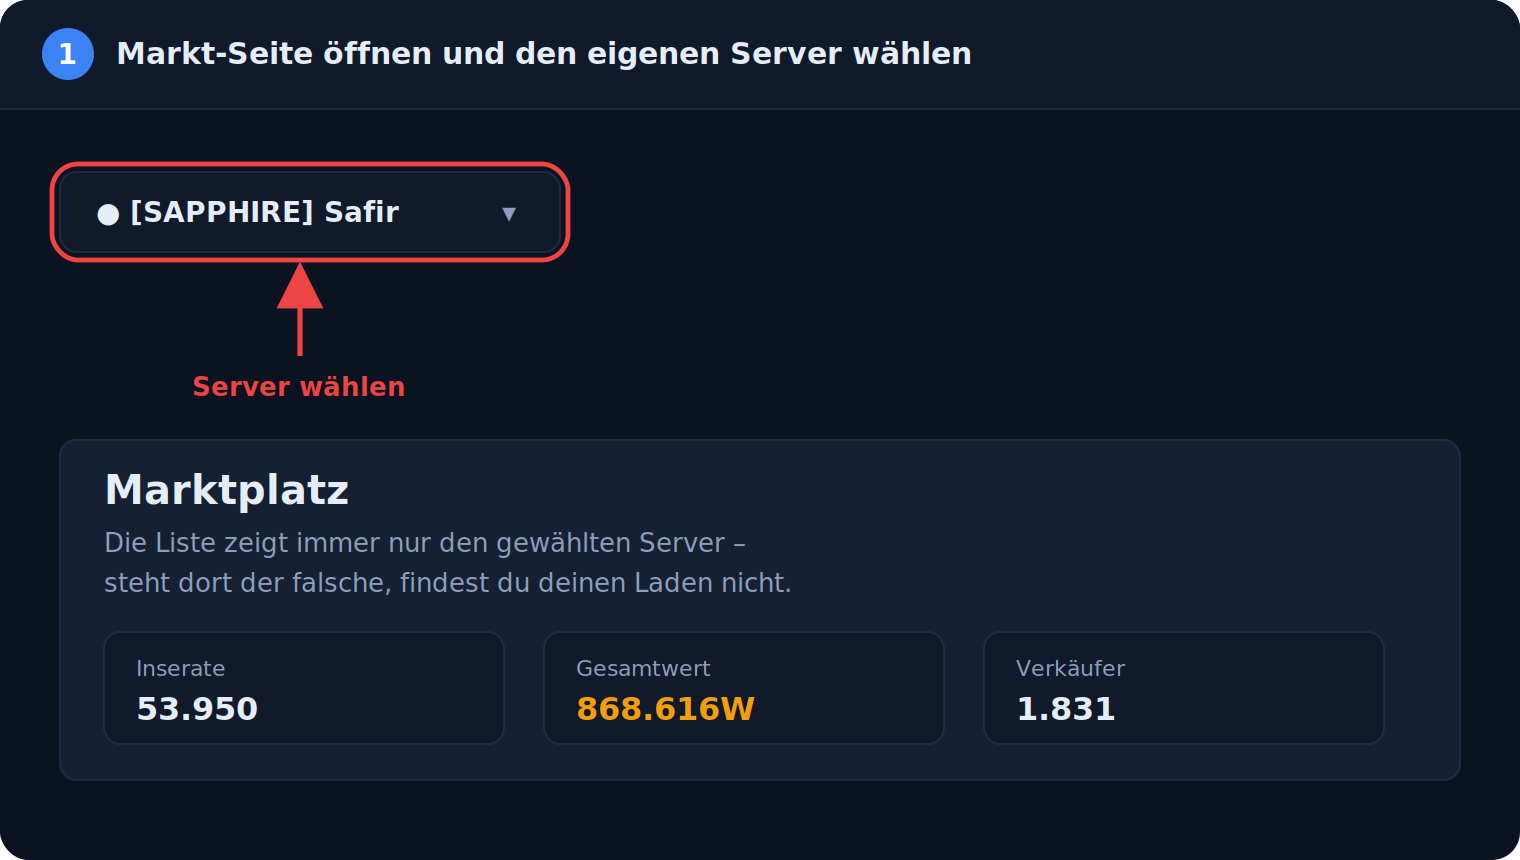
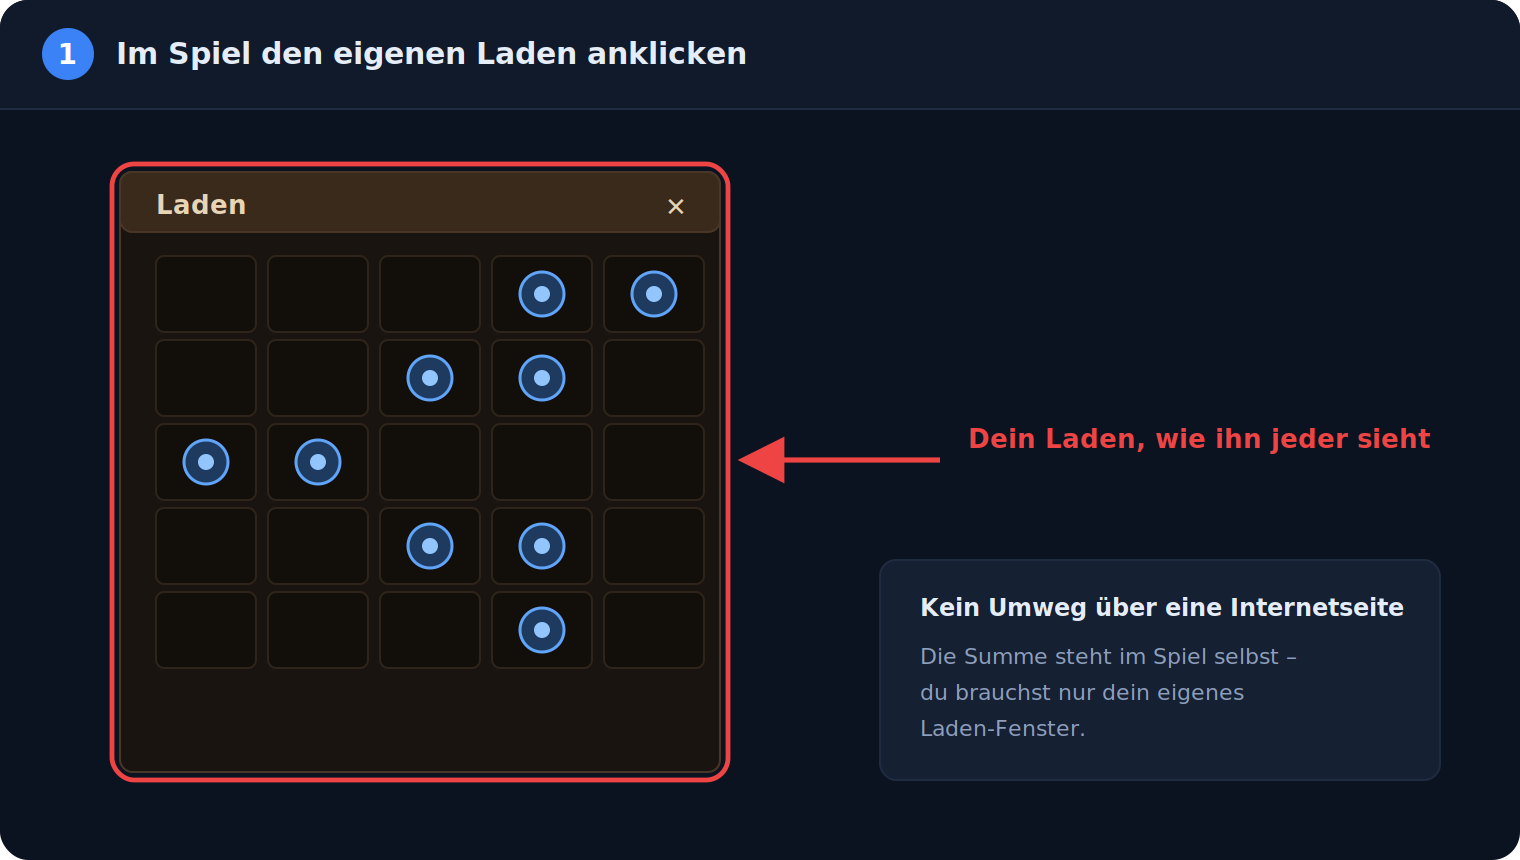
Quellcode zu Version 1.61.0 (a4471e4a2aba9b37bd351b5f139969d6788a3540)

diff --git a/desktop/tools/help-images.py b/desktop/tools/help-images.py
@@ -52,91 +52,55 @@ def glow(x,y,w,h,r=10):
     return (f'<rect x="{x-4}" y="{y-4}" width="{w+8}" height="{h+8}" rx="{r+3}" fill="none" '
             f'stroke="{MARK}" stroke-width="2.4"/>')
 
-# ---- 1: Server waehlen ------------------------------------------------------
-s1 = head(1, "Markt-Seite öffnen und den eigenen Server wählen")
-s1 += box(30, 86, 250, 40)
-s1 += text(48, 111, "&#9679;  [SAPPHIRE] Safir", 14, MAIN, "600")
-s1 += text(258, 111, "&#9662;", 14, MUTED, anchor="end")
-s1 += glow(30, 86, 250, 40)
-s1 += arrow(150, 178, 150, 136, "Server wählen", 96, 198)
-s1 += box(30, 220, 700, 170, PANEL)
-s1 += text(52, 252, "Marktplatz", 20, MAIN, "700")
-s1 += text(52, 276, "Die Liste zeigt immer nur den gewählten Server –", 13, MUTED)
-s1 += text(52, 296, "steht dort der falsche, findest du deinen Laden nicht.", 13, MUTED)
-for i, (lbl, val) in enumerate([("Inserate", "53.950"), ("Gesamtwert", "868.616W"), ("Verkäufer", "1.831")]):
-    x = 52 + i*220
-    s1 += box(x, 316, 200, 56, CARD)
-    s1 += text(x+16, 338, lbl, 11, MUTED)
-    s1 += text(x+16, 360, val, 16, AMBER if i==1 else MAIN, "700")
+# ---- 1: Laden im Spiel oeffnen ---------------------------------------------
+s1 = head(1, "Im Spiel den eigenen Laden anklicken")
+s1 += box(60, 86, 300, 300, "#1a1410", "#4a3626", 6)
+s1 += box(60, 86, 300, 30, "#3a2a1c", "#4a3626", 6)
+s1 += text(78, 107, "Laden", 13, "#e8d5b5", "600")
+s1 += text(342, 108, "&#10005;", 13, "#e8d5b5", anchor="end")
+for r in range(5):
+    for c in range(5):
+        x = 78 + c*56; y = 128 + r*42
+        s1 += box(x, y, 50, 38, "#120e0a", "#2e241a", 4)
+for r, c in [(0,3),(0,4),(1,2),(1,3),(2,0),(2,1),(3,2),(3,3),(4,3)]:
+    x = 78 + c*56; y = 128 + r*42
+    s1 += f'<circle cx="{x+25}" cy="{y+19}" r="11" fill="#1e3a5f" stroke="#60a5fa" stroke-width="1.5"/>'
+    s1 += f'<circle cx="{x+25}" cy="{y+19}" r="4" fill="#93c5fd"/>'
+s1 += glow(60, 86, 300, 300, 8)
+s1 += arrow(470, 230, 374, 230, "Dein Laden, wie ihn jeder sieht", 484, 224)
+s1 += box(440, 280, 280, 110, PANEL)
+s1 += text(460, 308, "Kein Umweg über eine Internetseite", 12, MAIN, "600")
+s1 += text(460, 332, "Die Summe steht im Spiel selbst –", 11, MUTED)
+s1 += text(460, 350, "du brauchst nur dein eigenes", 11, MUTED)
+s1 += text(460, 368, "Laden-Fenster.", 11, MUTED)
 
-# ---- 2: Verkaeufersuche -----------------------------------------------------
-s2 = head(2, "Verkäufersuche öffnen und den Charakternamen eintragen")
-s2 += box(30, 86, 700, 46)
-for i, tab in enumerate(["Alle", "Mounts | Pets", "Waffen", "Ausrüstungen", "Schmuck"]):
-    s2 += text(52 + i*130, 115, tab, 13, MAIN if i == 0 else MUTED, "600" if i == 0 else "400")
-s2 += box(300, 150, 400, 150)
-s2 += text(322, 180, "Verkäufersuche", 14, MAIN, "600")
-s2 += box(322, 196, 300, 38, DEEP, PRIM)
-s2 += text(338, 221, "ShopName", 14, MAIN)
-s2 += box(630, 196, 48, 38, AMBER, AMBER)
-s2 += lens(654, 215)
-s2 += glow(322, 196, 300, 38)
-s2 += arrow(190, 240, 310, 218, "Name des Charakters,", 30, 232)
-s2 += text(30, 250, "dem der Laden gehört", 13, MARK, "600")
-s2 += arrow(660, 330, 660, 244, "Suchen", 628, 352)
-s2 += text(322, 268, "Nicht der Ladentitel – der Charaktername.", 12, MUTED)
-s2 += box(30, 330, 240, 70, PANEL)
-s2 += text(48, 358, "Tipp", 12, MUTED, "600")
-s2 += text(48, 380, "Gespeicherte Namen bleiben stehen.", 11, MUTED)
-
-# ---- 3: Laden-Symbol anklicken ---------------------------------------------
-s3 = head(3, "In der Trefferliste auf das Laden-Symbol klicken")
-s3 += box(30, 80, 700, 30, CARD)
-s3 += text(52, 100, "Name", 12, MUTED, "600")
-s3 += text(430, 100, "Anzahl", 12, MUTED, "600")
-s3 += text(520, 100, "Preis", 12, MUTED, "600")
-s3 += text(640, 100, "Verkäufer", 12, MUTED, "600")
-for i in range(4):
-    y = 118 + i*68
-    s3 += box(30, y, 700, 60, PANEL)
-    s3 += text(52, y+26, "Legendärer Drachensaphir", 13, "#c084fc", "700")
-    s3 += text(52, y+46, "Beweglichkeit +3", 11, MUTED)
-    s3 += text(170, y+46, "Erdwiderstand +3%", 11, MUTED)
-    s3 += text(438, y+36, "1", 13, MAIN, "700")
-    s3 += text(520, y+36, "40.000.000", 13, AMBER, "700")
-    s3 += box(636, y+20, 28, 24, CARD, LINE, 5)
-    s3 += shopicon(641, y+25)
-    s3 += text(676, y+37, "+", 14, MUTED)
-s3 += glow(636, 138, 28, 24, 7)
-s3 += arrow(560, 394, 646, 174, "Das Laden-Symbol anklicken", 452, 412)
-
-# ---- 4: Gesamtwert ablesen --------------------------------------------------
-s4 = head(4, "Der Laden öffnet sich – unten steht der Gesamtwert")
-s4 += box(230, 76, 300, 320, "#1a1410", "#4a3626", 6)
-s4 += box(230, 76, 300, 30, "#3a2a1c", "#4a3626", 6)
-s4 += text(248, 97, "Laden", 13, "#e8d5b5", "600")
-s4 += text(512, 98, "&#10005;", 13, "#e8d5b5", anchor="end")
+# ---- 2: Summe unten ablesen -------------------------------------------------
+s2 = head(2, "Unten steht der Gesamtwert - diese Zahl eintragen")
+s2 += box(230, 76, 300, 320, "#1a1410", "#4a3626", 6)
+s2 += box(230, 76, 300, 30, "#3a2a1c", "#4a3626", 6)
+s2 += text(248, 97, "Laden", 13, "#e8d5b5", "600")
+s2 += text(512, 98, "&#10005;", 13, "#e8d5b5", anchor="end")
 for r in range(6):
     for c in range(5):
         x = 248 + c*56; y = 118 + r*42
-        s4 += box(x, y, 50, 38, "#120e0a", "#2e241a", 4)
-import_items = [(1,3),(1,4),(2,2),(2,3),(2,4),(3,0),(3,1),(4,2),(4,3),(4,4),(5,3)]
-for r,c in import_items:
+        s2 += box(x, y, 50, 38, "#120e0a", "#2e241a", 4)
+for r, c in [(1,3),(1,4),(2,2),(2,3),(2,4),(3,0),(3,1),(4,2),(4,3),(4,4),(5,3)]:
     x = 248 + c*56; y = 118 + r*42
-    s4 += f'<circle cx="{x+25}" cy="{y+19}" r="11" fill="#1e3a5f" stroke="#60a5fa" stroke-width="1.5"/>'
-    s4 += f'<circle cx="{x+25}" cy="{y+19}" r="4" fill="#93c5fd"/>'
-s4 += text(380, 388, "156W", 18, "#22d3ee", "700", anchor="middle")
-s4 += glow(330, 372, 100, 22, 6)
-s4 += arrow(700, 384, 440, 384, "Das ist dein kompletter Shop-Wert", 712, 372, "end")
-s4 += box(30, 110, 180, 120, PANEL)
-s4 += text(48, 138, "Weiter in M2Hub", 12, MAIN, "600")
-s4 += text(48, 160, "Diesen Wert als", 11, MUTED)
-s4 += text(48, 178, "&#8222;Im Shop&#8220; eintragen", 11, MUTED)
-s4 += text(48, 196, "und die Truhen", 11, MUTED)
-s4 += text(48, 214, "darunter abziehen.", 11, MUTED)
+    s2 += f'<circle cx="{x+25}" cy="{y+19}" r="11" fill="#1e3a5f" stroke="#60a5fa" stroke-width="1.5"/>'
+    s2 += f'<circle cx="{x+25}" cy="{y+19}" r="4" fill="#93c5fd"/>'
+s2 += text(380, 388, "156W", 18, "#22d3ee", "700", anchor="middle")
+s2 += glow(330, 372, 100, 22, 6)
+s2 += arrow(700, 384, 440, 384, "Das ist dein kompletter Shop-Wert", 712, 372, "end")
+s2 += box(30, 110, 180, 150, PANEL)
+s2 += text(48, 138, "Weiter in M2Hub", 12, MAIN, "600")
+s2 += text(48, 160, "Diesen Wert bei Goals", 11, MUTED)
+s2 += text(48, 178, "als &#8222;Im Shop&#8220; eintragen", 11, MUTED)
+s2 += text(48, 196, "und darunter die Truhen", 11, MUTED)
+s2 += text(48, 214, "angeben, die schon über", 11, MUTED)
+s2 += text(48, 232, "die Runs gezaehlt sind.", 11, MUTED)
 
-for name, body in [("shop1", s1), ("shop2", s2), ("shop3", s3), ("shop4", s4)]:
-    svg = f'<svg xmlns="http://www.w3.org/2000/svg" width="{W}" height="{H}" viewBox="0 0 {W} {H}">{body}</svg>'
+for name, body_ in [("shop1", s1), ("shop2", s2)]:
+    svg = f'<svg xmlns="http://www.w3.org/2000/svg" width="{W}" height="{H}" viewBox="0 0 {W} {H}">{body_}</svg>'
     cairosvg.svg2png(bytestring=svg.encode("utf-8"),
                      write_to=os.path.join(OUT, name + ".png"),
                      output_width=W*2, output_height=H*2)

diff --git a/desktop/M2Hub.Desktop/Services/I18n/Loc.cs b/desktop/M2Hub.Desktop/Services/I18n/Loc.cs
@@ -88,8 +88,6 @@ public sealed class Loc : INotifyPropertyChanged
         ["nav.accounts"] = ["Accounts", "Accounts", "Hesaplar", "Account"],
         ["nav.events"] = ["Events", "Events", "Etkinlikler", "Eventi"],
         ["nav.itemshop"] = ["Itemshop", "Item Shop", "Nesne Market", "Item Shop"],
-        ["nav.wiki"] = ["Wiki öffnen (metin2alerts.com)", "Open wiki (metin2alerts.com)", "Wiki’yi aç (metin2alerts.com)", "Apri il wiki (metin2alerts.com)"],
-        ["nav.tradingGlass"] = ["Handelsglas öffnen (metin2alerts.com)", "Open trading glass (metin2alerts.com)", "Ticaret camını aç (metin2alerts.com)", "Apri il trading glass (metin2alerts.com)"],
         ["nav.calc"] = ["Rechner", "Calculators", "Hesaplayıcı", "Calcolatori"],
         ["nav.settings"] = ["Einstellungen", "Settings", "Ayarlar", "Impostazioni"],
         ["header.refresh"] = ["Jetzt aktualisieren", "Refresh now", "Şimdi güncelle", "Aggiorna ora"],
@@ -451,13 +449,9 @@ public sealed class Loc : INotifyPropertyChanged
         ["goals.shop.minus"] = ["abzüglich {0} Truhen ({1})", "minus {0} chests ({1})", "{0} sandık düşüldü ({1})", "meno {0} forzieri ({1})"],
         ["goals.shop.help"] = ["Hilfe", "Help", "Yardım", "Aiuto"],
         ["goals.shop.help.title"] = ["Shop-Wert ablesen", "Read the shop value", "Dükkan değerini oku", "Leggere il valore del negozio"],
-        ["goals.shop.help.lead"] = ["Den Gesamtwert deines Ladens zeigt dir eine Markt-Seite wie metin2alerts.com – in vier Schritten.", "A market site such as metin2alerts.com shows your shop’s total value – in four steps.", "metin2alerts.com gibi bir pazar sitesi dükkanının toplam değerini gösterir – dört adımda.", "Un sito di mercato come metin2alerts.com mostra il valore totale del tuo negozio – in quattro passi."],
-        ["goals.shop.help.step1"] = ["Markt-Seite öffnen und oben links den Server wählen, auf dem dein Laden steht.", "Open the market site and pick, top left, the server your shop is on.", "Pazar sitesini aç ve sol üstte dükkanının bulunduğu sunucuyu seç.", "Apri il sito di mercato e scegli in alto a sinistra il server del tuo negozio."],
-        ["goals.shop.help.step2"] = ["Verkäufersuche öffnen und den Namen des Charakters eintragen, dem der Laden gehört – nicht den Ladentitel.", "Open the seller search and enter the name of the character that owns the shop – not the shop title.", "Satıcı aramasını aç ve dükkanın sahibi karakterin adını gir – dükkan başlığını değil.", "Apri la ricerca venditore e inserisci il nome del personaggio proprietario del negozio – non il titolo del negozio."],
-        ["goals.shop.help.step3"] = ["In der Trefferliste auf das Laden-Symbol neben dem Verkäufer klicken.", "In the results, click the shop icon next to the seller.", "Sonuç listesinde satıcının yanındaki dükkan simgesine tıkla.", "Nei risultati, clicca sull’icona del negozio accanto al venditore."],
-        ["goals.shop.help.step4"] = ["Der Laden öffnet sich. Unten steht der Gesamtwert – genau diese Zahl trägst du als „Im Shop“ ein.", "The shop opens. At the bottom is the total value – that is the number you enter as “in the shop”.", "Dükkan açılır. Altta toplam değer yazar – bu sayıyı “Dükkanda” olarak gir.", "Il negozio si apre. In basso c’è il valore totale – quel numero va inserito come «Nel negozio»."],
-        ["goals.shop.help.open"] = ["Markt-Seite öffnen", "Open the market site", "Pazar sitesini aç", "Apri il sito di mercato"],
-        ["goals.shop.help.openButton"] = ["Öffnen", "Open", "Aç", "Apri"],
+        ["goals.shop.help.lead"] = ["Den Gesamtwert deines Ladens zeigt dir das Spiel selbst – unten im Laden-Fenster.", "The game itself shows your shop’s total value – at the bottom of the shop window.", "Dükkanının toplam değerini oyunun kendisi gösterir – dükkan penceresinin altında.", "Il valore totale del tuo negozio te lo mostra il gioco stesso – in fondo alla finestra del negozio."],
+        ["goals.shop.help.step1"] = ["Im Spiel den eigenen Laden öffnen – ein Klick auf den Laden-Charakter.", "In the game, open your own shop – one click on the shop character.", "Oyunda kendi dükkanını aç – dükkan karakterine bir tık.", "Nel gioco apri il tuo negozio – un clic sul personaggio del negozio."],
+        ["goals.shop.help.step2"] = ["Unten im Laden-Fenster steht die Summe aller ausliegenden Waren, in Won – genau diese Zahl trägst du als „Im Shop\u201c ein.", "At the bottom of the shop window stands the sum of everything on offer, in won – that is the number you enter as “in the shop”.", "Dükkan penceresinin altında sergilenen tüm malların toplamı won olarak yazar – bu sayıyı “Dükkanda” olarak gir.", "In fondo alla finestra del negozio c’è la somma di tutta la merce esposta, in won – quel numero va inserito come «Nel negozio»."],
         ["nav.timers"] = ["Timer-Fenster", "Timer window", "Zamanlayıcı penceresi", "Finestra timer"],
         ["timers.custom"] = ["Eigener Timer", "Own timer", "Kendi zamanlayıcın", "Timer personale"],
         ["settings.timers"] = ["Abklingzeiten über dem Spiel", "Cooldowns over the game", "Oyun üzerinde bekleme süreleri", "Tempi di recupero sopra il gioco"],

diff --git a/desktop/M2Hub.Desktop/ViewModels/ShopHelpDialogViewModel.cs b/desktop/M2Hub.Desktop/ViewModels/ShopHelpDialogViewModel.cs
@@ -1,29 +1,27 @@
 using System.Collections.ObjectModel;
 using Avalonia.Media.Imaging;
 using Avalonia.Platform;
-using M2Hub.Desktop;
 using M2Hub.Desktop.Services;
 
 namespace M2Hub.Desktop.ViewModels;
 
 /// „Wie sehe ich meinen Shop-Wert?" - die vier Schritte als Bilder.
 ///
-/// Die Bilder liegen als `Assets/Help/shop1..4.png` bei und sind **selbst
-/// gezeichnet** (`desktop/tools/help-images.py`), keine Bildschirmfotos: die
-/// echten Seiten sind voller Zahlen, die mit dem Weg nichts zu tun haben.
+/// Die Bilder liegen als `Assets/Help/shop1..2.png` bei und sind **selbst
+/// gezeichnet** (`desktop/tools/help-images.py`), keine Bildschirmfotos.
+///
+/// Der Weg fuehrt **durch das Spiel**, nicht ueber eine Internetseite: das
+/// Laden-Fenster nennt die Summe aller ausliegenden Waren selbst. Frueher
+/// stand hier der Weg ueber eine Markt-Seite; die schliesst, und ein toter
+/// Link ist schlechter als kein Link.
 ///
 /// Nur lesen und wegklicken - hier wird nichts eingestellt.
 public sealed class ShopHelpDialogViewModel : DialogViewModelBase
 {
-    /// Die Seite, die der erste Schritt meint. Sie steht hier und im ersten
-    /// Schritttext - der Knopf spart das Abtippen.
-    public const string Market = "https://metin2alerts.com/store/";
-
     public ShopHelpDialogViewModel() : base(Loc.T("goals.shop.help.title"))
     {
-        OpenMarketCommand = new RelayCommand(_ => Platform.OpenUrl(Market));
 
-        for (var i = 1; i <= 4; i++)
+        for (var i = 1; i <= 2; i++)
         {
             var image = Load(i);
             if (image is null) continue;
@@ -34,12 +32,6 @@ public sealed class ShopHelpDialogViewModel : DialogViewModelBase
 
     public ObservableCollection<ShopHelpStep> Steps { get; } = new();
 
-    /// Oeffnet die Markt-Seite im Browser.
-    public RelayCommand OpenMarketCommand { get; }
-
-    /// Die Adresse zum Mitlesen - wer den Knopf nicht nutzen will oder die App
-    /// auf einem anderen Rechner hat, tippt sie ab.
-    public string MarketUrl => Market;
 
     /// Faellt ein Bild aus, bleibt der Schritt weg - eine Hilfe ist nichts,
     /// wofuer die App stehenbleiben darf.

diff --git a/desktop/M2Hub.Desktop/ViewModels/MainWindowViewModel.cs b/desktop/M2Hub.Desktop/ViewModels/MainWindowViewModel.cs
@@ -61,7 +61,6 @@ public sealed class MainWindowViewModel : ViewModelBase
         ToggleTimersCommand = new RelayCommand(_ => ToggleTimers());
         ShowSettingsCommand = new RelayCommand(_ => Show("settings"));
         RefreshCommand = new AsyncRelayCommand(_ => RefreshAsync(manual: true));
-        OpenLinkCommand = new RelayCommand(p => Platform.OpenUrl(p as string));
 
         // Nach einem Sprachwechsel muessen die Listen neu beschriftet werden -
         // sie tragen ihre Texte als feste Zeichenketten, nicht als Bindung.
@@ -190,11 +189,8 @@ public sealed class MainWindowViewModel : ViewModelBase
 
     /// Oeffnet eine Adresse im Standardbrowser. Die App selbst zeigt keine
     /// fremden Seiten an - sie hat dafuer bewusst keine Browser-Engine.
-    public RelayCommand OpenLinkCommand { get; }
 
     /// Nachschlagewerk und Handelsglas, beide ausserhalb der App.
-    public const string WikiUrl = "https://metin2alerts.com/wiki";
-    public const string TradingGlassUrl = "https://metin2alerts.com/store/";
 
     /// Beim Start: gespeicherten Stand zeigen, dann laden.
     public async Task InitializeAsync()

diff --git a/desktop/CHANGELOG.md b/desktop/CHANGELOG.md
@@ -7,6 +7,19 @@ veroeffentlichte Fassung steht hier; die Punkte sind nach **Neu**,
 Diese Datei liegt der App bei und steht in den Einstellungen unter
 „Was ist neu"; dieselben Punkte stehen in den Release-Notizen.
 
+## 1.61.0
+
+**Entfernt**
+
+- Die Knoepfe zu **Wiki und Handelsglas** in der Kopfzeile. Die Seite dahinter
+  schliesst, und ein toter Link ist schlechter als kein Link.
+
+**Geaendert**
+
+- Die **Hilfe zum Shop-Wert** fuehrt jetzt durch das Spiel statt ueber eine
+  Internetseite: eigenen Laden anklicken, unten steht die Summe. Zwei Bilder
+  statt vier, kein Link mehr.
+
 ## 1.60.1
 
 **Geaendert**

diff --git a/desktop/M2Hub.Desktop/Assets/CHANGELOG.md b/desktop/M2Hub.Desktop/Assets/CHANGELOG.md
@@ -7,6 +7,19 @@ veroeffentlichte Fassung steht hier; die Punkte sind nach **Neu**,
 Diese Datei liegt der App bei und steht in den Einstellungen unter
 „Was ist neu"; dieselben Punkte stehen in den Release-Notizen.
 
+## 1.61.0
+
+**Entfernt**
+
+- Die Knoepfe zu **Wiki und Handelsglas** in der Kopfzeile. Die Seite dahinter
+  schliesst, und ein toter Link ist schlechter als kein Link.
+
+**Geaendert**
+
+- Die **Hilfe zum Shop-Wert** fuehrt jetzt durch das Spiel statt ueber eine
+  Internetseite: eigenen Laden anklicken, unten steht die Summe. Zwei Bilder
+  statt vier, kein Link mehr.
+
 ## 1.60.1
 
 **Geaendert**
